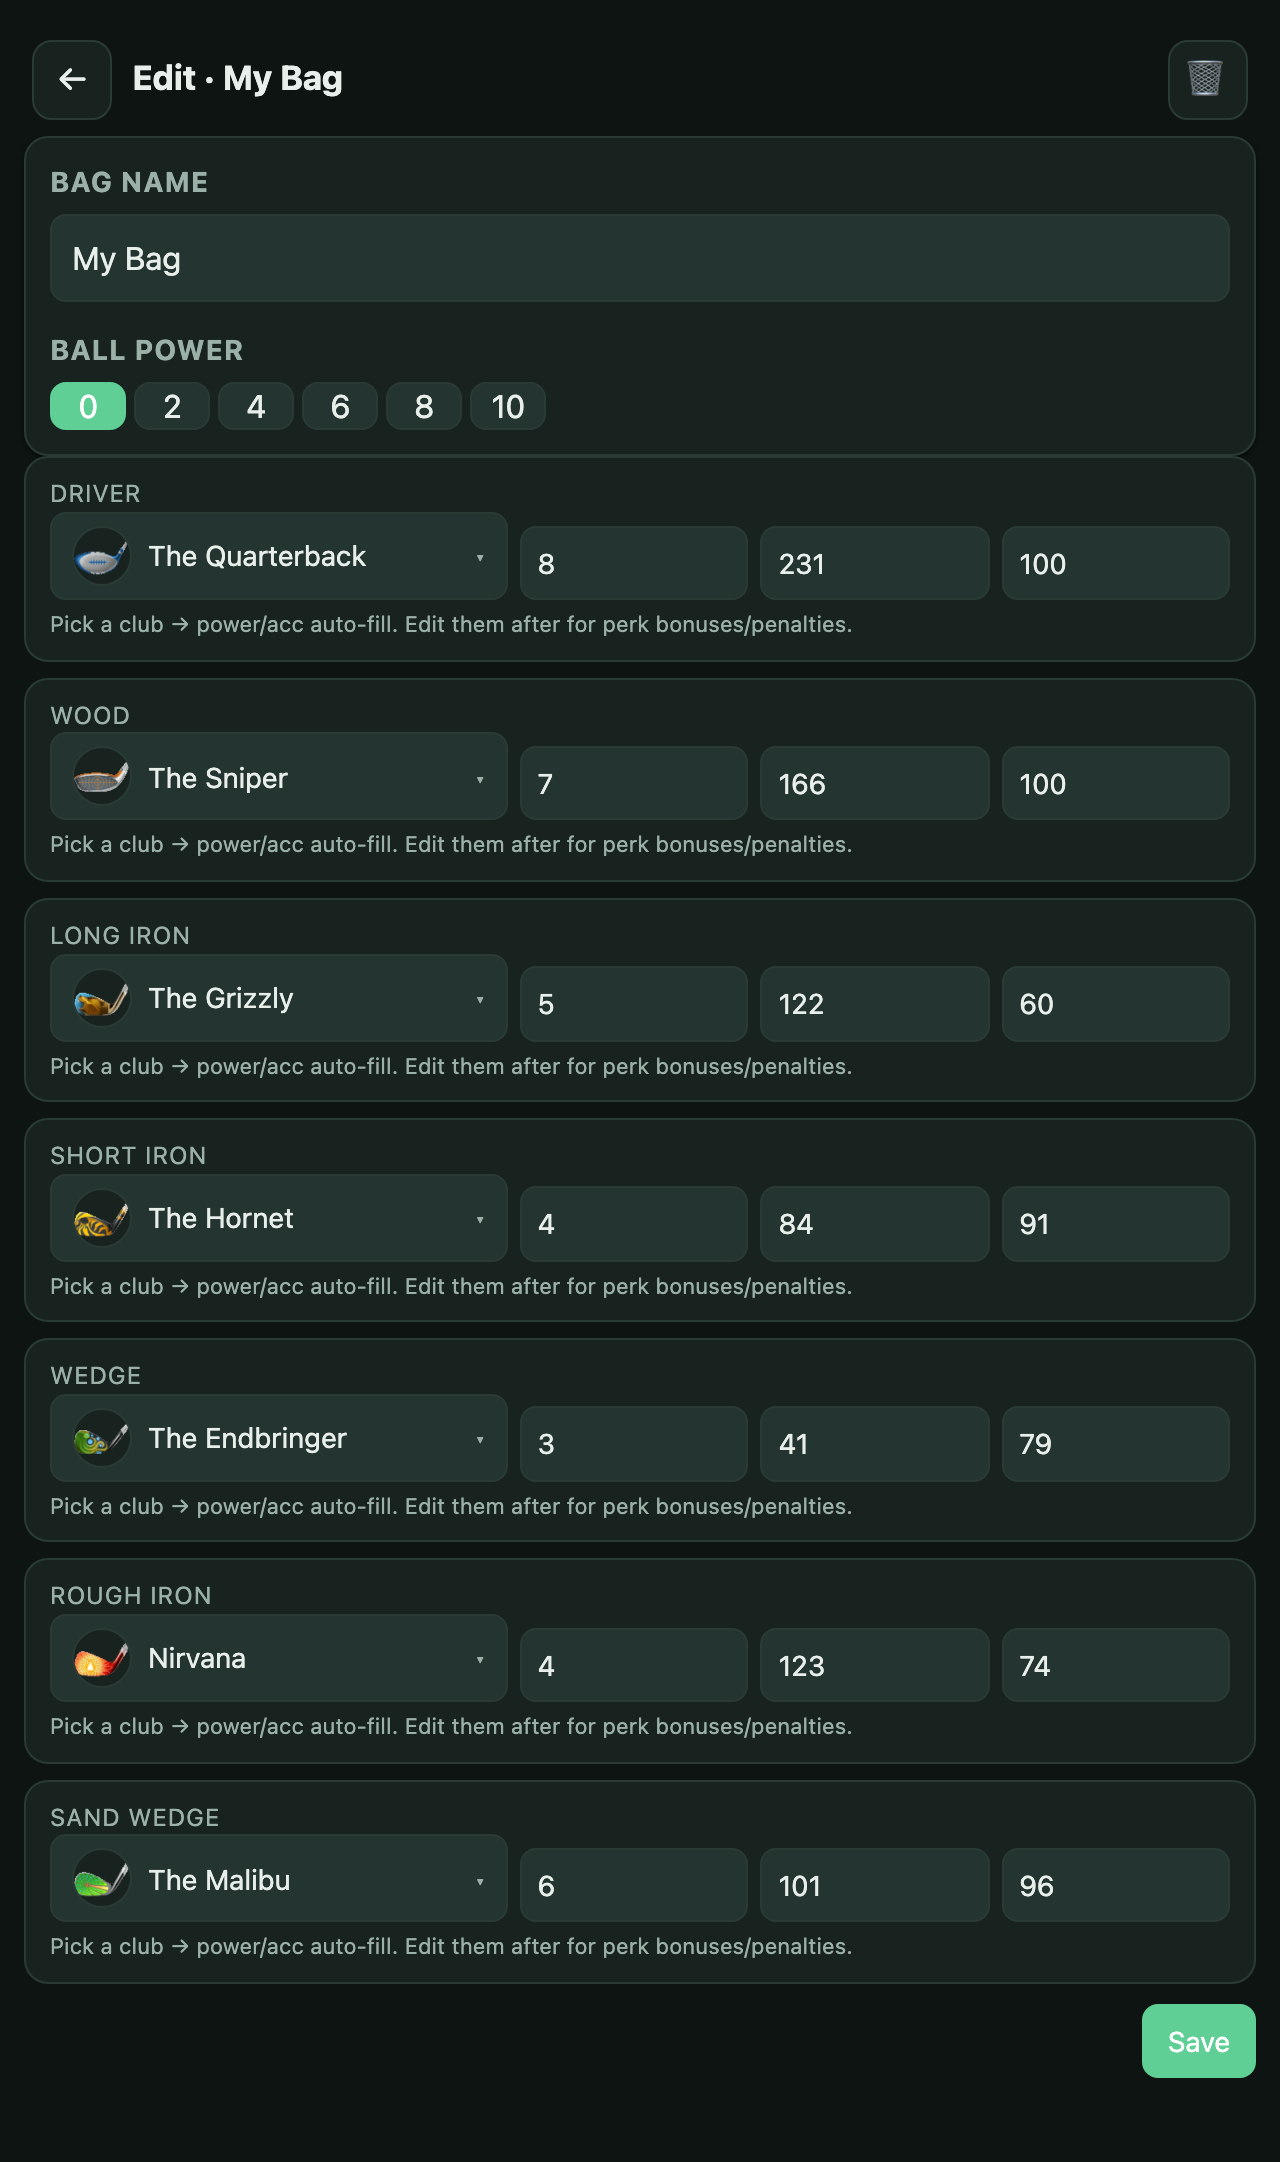
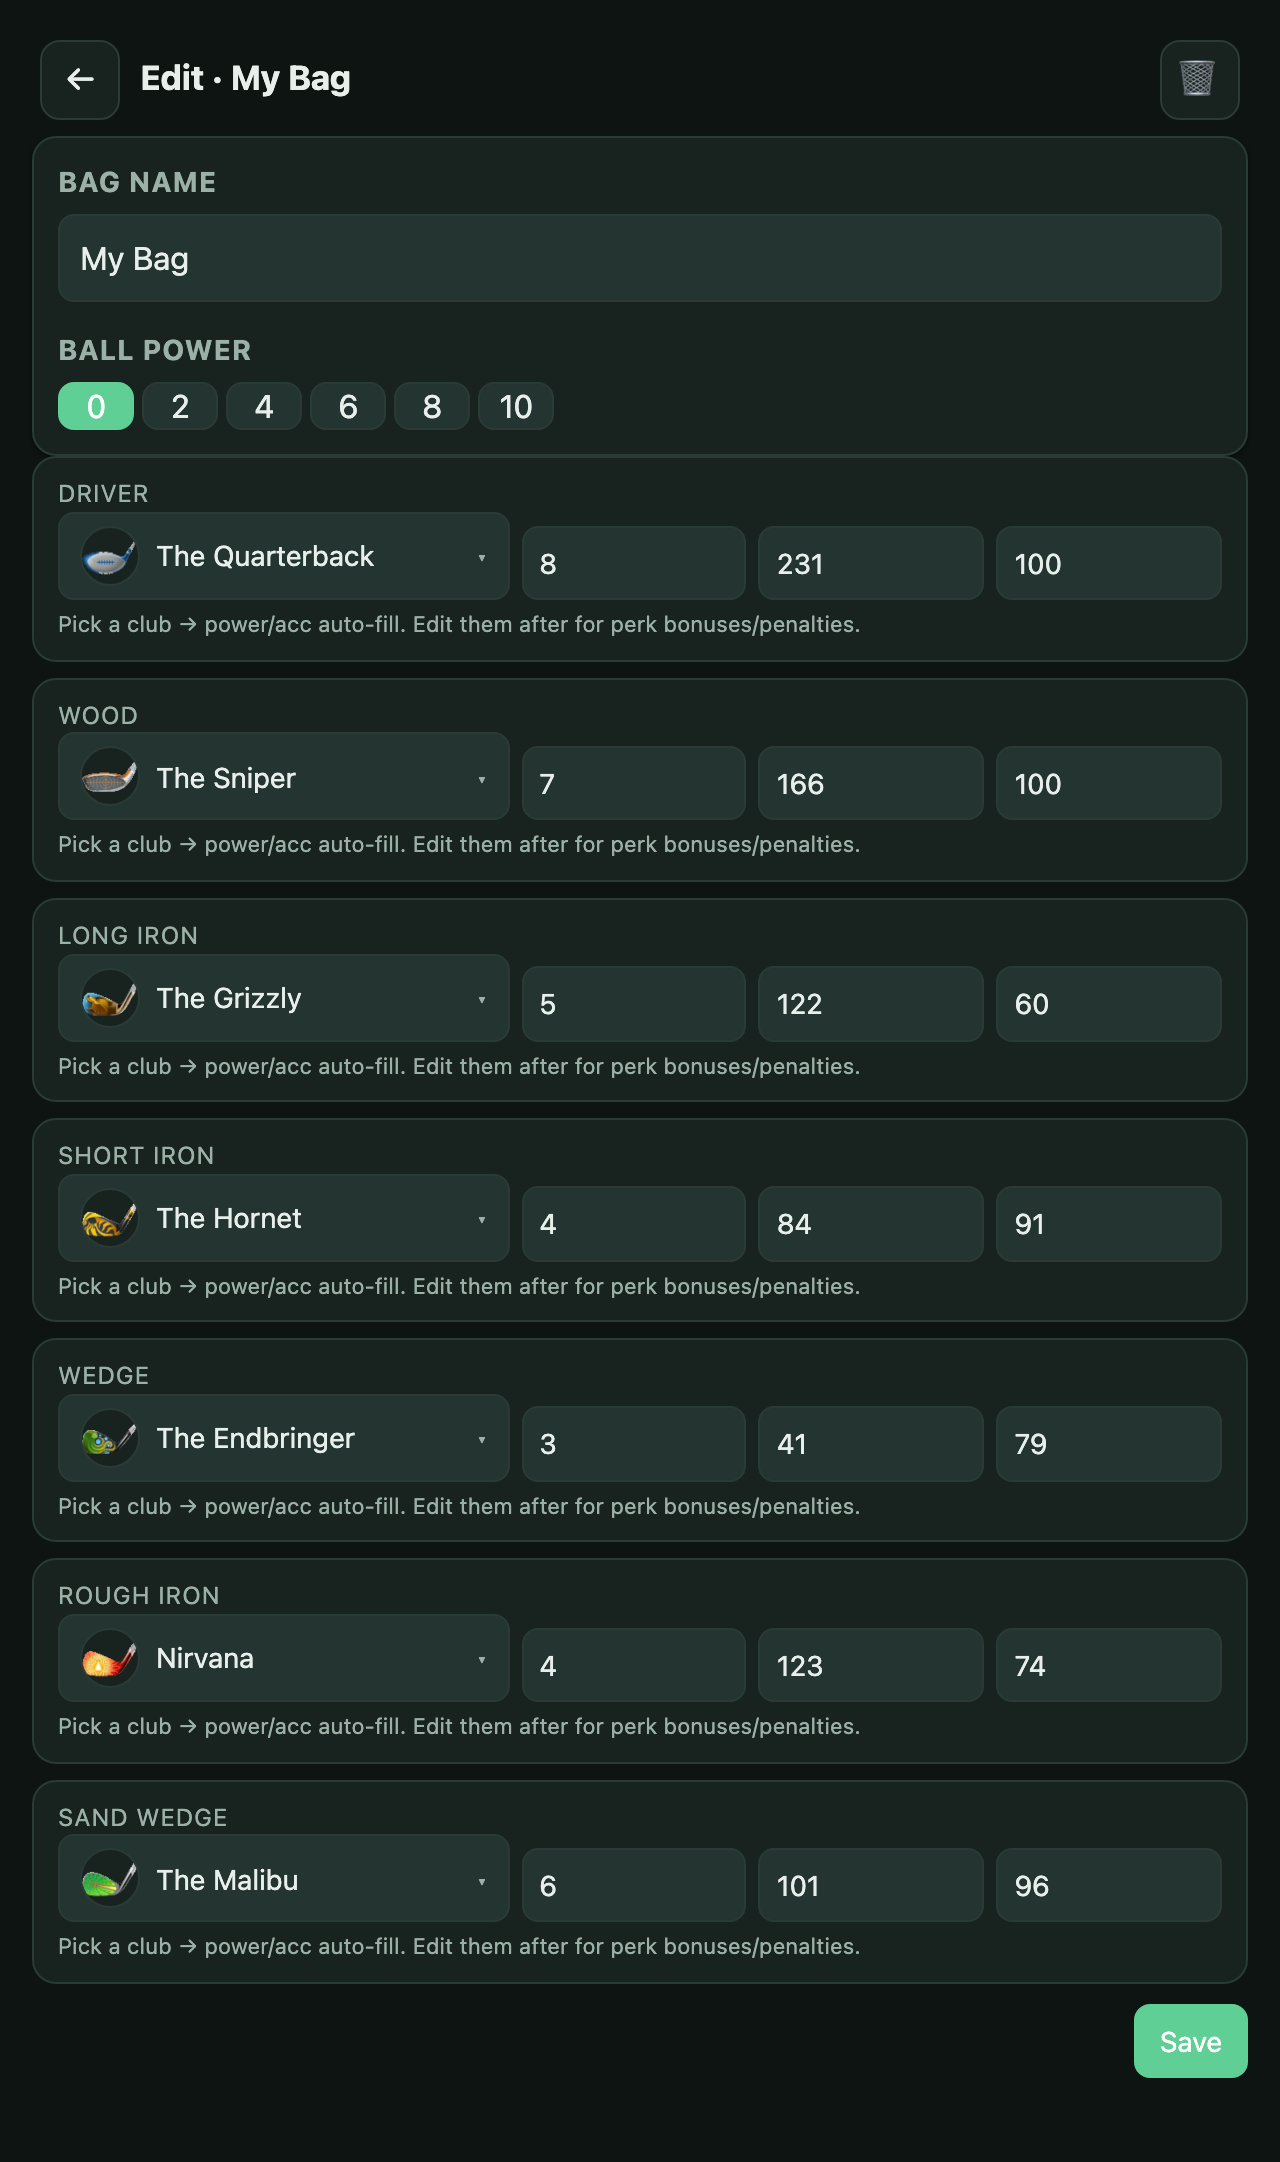
Bigger compass, thicker arrows, unified medium/wide layout
User reported the 24-arrow compass was hard to click, while the numpad
had empty space and the BP column was wider than needed.

Layout — collapsed the separate medium (600–899) and wide (≥900)
breakpoints into a single layout for any viewport ≥600px:
  - grid-template-columns: 320px 1fr (wind sized to its content, cb-pair
    gets the rest)
  - cb-pair: flex-row with compass (flex: 1) + bp-card (76px fixed,
    was 88/92px)
  - tables full width below
  - align-items: start so the wind card doesn't stretch to match a
    taller compass column

Compass — max-width 320px → 420px, width 95% → 100%, padding 4/4/6
→ 2/4/4. Dial now visibly fills its card on any non-tiny viewport.

Arrows — switched from narrow triangles (half-thickness 5) to slight
trapezoids: base half-thickness 8, tip half-thickness 3, length
44→78px from center. Each wedge is markedly easier to spot at a
glance, and the slight taper still reads as "this arrow points
this way."

Tap target — circle r=15 → 18, moved out to r=78 to follow the
longer arrows. Bigger hit area at 24 directions.

SW bumped to gc-wind-v7.

Screenshots regenerated.

diff --git a/index.html b/index.html
@@ -74,21 +74,23 @@
       display: flex; flex-direction: column; gap: 10px; min-width: 0;
     }
 
-    /* Medium (600–899): wind on the left top, compass + vertical ball
-       power side-by-side on the right top (same idea as wide). Tables
-       full width below. play-input-col / play-tables-col go invisible
-       via display:contents so they don't participate in the grid;
-       cb-pair stays as a flex container that occupies the "cb" area. */
-    @media (min-width: 600px) and (max-width: 899px) {
+    /* >= 600px: single unified layout — wind card sized to its content
+       (≈320px) on the left, compass + narrow vertical ball power filling
+       the rest of the top row, tables full width below. play-input-col
+       and play-tables-col go invisible via display:contents so the
+       inner cards become direct grid items; cb-pair is the flex-row
+       that holds compass + bp side-by-side. align-items: start keeps
+       the wind card from stretching to match a taller compass column. */
+    @media (min-width: 600px) {
+      main { padding: 12px 16px 32px; }
       .play-grid {
         display: grid;
-        grid-template-columns: 1fr 1fr;
+        grid-template-columns: 320px 1fr;
         grid-template-areas:
-          "wind cb"
           "wind cb"
           "t1   t1"
           "t2   t2";
-        gap: 10px;
+        gap: 12px;
         align-items: start;
       }
       .play-input-col, .play-tables-col { display: contents; }
@@ -97,36 +99,17 @@
         grid-area: cb; align-items: stretch;
       }
       .cb-pair > .compass-wrap { flex: 1; min-width: 0; }
-      .cb-pair > .bp-card { width: 88px; flex: 0 0 88px; padding: 10px 8px; }
+      .cb-pair > .bp-card { width: 76px; flex: 0 0 76px; padding: 8px 6px; }
       .cb-pair .ball-power { flex-direction: column; gap: 4px; align-items: stretch; }
       .cb-pair .bp-header { flex-direction: column; align-items: flex-start;
-        gap: 0; margin-bottom: 6px; }
+        gap: 0; margin-bottom: 4px; }
       .cb-pair .bp-header .caption { display: none; }
-      .cb-pair .ball-power .chip { width: 100%; padding: 4px 6px; min-width: 0; }
+      .cb-pair .ball-power .chip { width: 100%; padding: 3px 4px; min-width: 0; }
+      .cb-pair .ball-power .chip .num { font-size: 13px; }
+      .cb-pair .ball-power .chip .sub { font-size: 9px; }
       .card[data-area="wind"] { grid-area: wind; }
       .card[data-area="t1"]   { grid-area: t1; }
       .card[data-area="t2"]   { grid-area: t2; }
-    }
-
-    /* Wide (>= 900): two independent flex columns so tables auto-size
-       (no forced row-spanning, no empty gap between Table 1 and Table 2).
-       Compass + Ball Power sit side-by-side via cb-pair flex-row, with
-       Ball Power as a narrow vertical column of chips. */
-    @media (min-width: 900px) {
-      main { padding: 12px 16px 32px; }
-      .play-grid { flex-direction: row; gap: 14px; align-items: flex-start; }
-      .play-input-col { flex: 0 0 380px; gap: 14px; }
-      .play-tables-col { flex: 1; min-width: 0; gap: 14px; }
-      .cb-pair { flex-direction: row; gap: 10px; align-items: stretch; }
-      .cb-pair > .compass-wrap { flex: 1; min-width: 0; }
-      .cb-pair > .bp-card { width: 92px; flex: 0 0 92px; padding: 10px 8px; }
-      .cb-pair .ball-power { flex-direction: column; gap: 4px; align-items: stretch; }
-      .cb-pair .bp-header { flex-direction: column; align-items: flex-start;
-        gap: 0; margin-bottom: 6px; }
-      .cb-pair .bp-header .caption { display: none; }
-      .cb-pair .ball-power .chip { min-width: 0; padding: 4px 6px; width: 100%; }
-      .cb-pair .ball-power .chip .num { font-size: 13px; }
-      .cb-pair .ball-power .chip .sub { font-size: 9px; }
     }
     h1, h2, h3 { margin: 0; }
     h2 { font-size: 18px; }
@@ -193,13 +176,13 @@
     .numpad .clr { color: var(--warn); font-size: 15px; }
 
     /* Compass — fill the card. Uses % width + aspect-ratio so the dial
-       scales with whatever the card column gives it, capped at a
-       readable max so it doesn't get absurd on ultra-wide containers. */
+       scales with whatever the card column gives it. Higher max so the
+       dial is easier to tap with 24 directions. */
     .compass-wrap { display: flex; flex-direction: column; align-items: center;
-      justify-content: center; gap: 2px; padding: 4px 4px 6px; }
+      justify-content: center; gap: 2px; padding: 2px 4px 4px; }
     .compass {
-      width: 95%;
-      max-width: 320px;
+      width: 100%;
+      max-width: 420px;
       aspect-ratio: 1 / 1;
       height: auto;
       display: block;
@@ -773,27 +756,33 @@
       // cardinal labels (N/E/S/W) in red
       const cards = [["N",0,-82],["E",82,0],["S",0,82],["W",-82,0]];
       for (const [t,x,y] of cards) html += `<text class="cardinal-label" x="${x}" y="${y}">${t}</text>`;
-      // 24 arrows at 15° steps for finer-grained direction selection.
-      // Arrows narrower than the old 16-direction layout so neighbors
-      // don't visually crowd. The 4 cardinals get .cardinal (red).
+      // 24 arrows at 15° steps. Slightly chunkier than before so each
+      // wedge is easier to spot and the tap target reads visually.
+      // The 4 cardinals get .cardinal (red).
       for (let i = 0; i < 24; i++) {
         const deg = i * 15;
         const rad = deg * Math.PI / 180;
-        const tipR = 48;
-        const tx = Math.sin(rad) * tipR, ty = -Math.cos(rad) * tipR;
-        const baseR = 72;
-        const w = 5;
-        const perpX = Math.cos(rad) * w, perpY = Math.sin(rad) * w;
-        const b1x = Math.sin(rad) * baseR + perpX, b1y = -Math.cos(rad) * baseR + perpY;
-        const b2x = Math.sin(rad) * baseR - perpX, b2y = -Math.cos(rad) * baseR - perpY;
-        // selected-arrow tolerance: half of the 15° step
+        // Wedge geometry: thicker base, slightly longer than the old
+        // arrows. Tip nearer the center; base wider for visibility.
+        const tipR = 44;
+        const baseR = 78;
+        const w = 8;          // half-thickness at base
+        const tipW = 3;       // half-thickness at tip (slight taper)
+        const sin = Math.sin(rad), cos = Math.cos(rad);
+        const tx = sin * tipR, ty = -cos * tipR;
+        const perpX = cos, perpY = sin;
+        const t1x = tx + perpX * tipW,  t1y = ty + perpY * tipW;
+        const t2x = tx - perpX * tipW,  t2y = ty - perpY * tipW;
+        const b1x = sin * baseR + perpX * w, b1y = -cos * baseR + perpY * w;
+        const b2x = sin * baseR - perpX * w, b2y = -cos * baseR - perpY * w;
         const isOn = Math.abs(((inputs.dir - deg + 540) % 360) - 180) < 7.5;
         const isCardinal = (deg % 90) === 0;
         html += `<g class="arrow-btn ${isOn ? "on" : ""} ${isCardinal ? "cardinal" : ""}" data-deg="${deg}">`;
-        // Tap target sized so 24 around a 200px dial don't overlap.
-        const hx = Math.sin(rad) * 76, hy = -Math.cos(rad) * 76;
-        html += `<circle cx="${hx}" cy="${hy}" r="15" fill="transparent"/>`;
-        html += `<polygon points="${tx},${ty} ${b1x},${b1y} ${b2x},${b2y}"/>`;
+        // Bigger tap target so the dial is forgiving on touch.
+        const hx = sin * 78, hy = -cos * 78;
+        html += `<circle cx="${hx}" cy="${hy}" r="18" fill="transparent"/>`;
+        // Trapezoid: wide at base, slight taper to a near-point at the tip.
+        html += `<polygon points="${t1x},${t1y} ${b1x},${b1y} ${b2x},${b2y} ${t2x},${t2y}"/>`;
         html += `</g>`;
       }
       // center recenter button — tap to reset to side wind (90°)

diff --git a/sw.js b/sw.js
@@ -3,7 +3,7 @@
 //   - Navigations (HTML): network-first with cache fallback → always fresh online,
 //     but works offline. Avoids stale UI after deploys.
 //   - Static assets (clubs.js, icons, manifest): cache-first.
-const CACHE = "gc-wind-v6";
+const CACHE = "gc-wind-v7";
 const SHELL = [
   "./",
   "./index.html",
